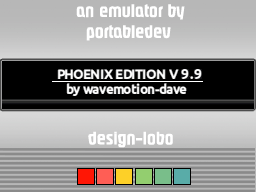
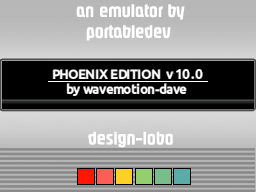
Version 10.0 - see README.MD for details

Changed region(s): [[0.1875, 0.3438, 0.8125, 0.4375]]

diff --git a/arm9/source/svi.c b/arm9/source/svi.c
@@ -306,6 +306,11 @@ unsigned char cpu_readport_svi(register unsigned short Port)
 }
 
 
+// ------------------------------------------------------------------------
+// Patch SVI BIOS for Cassette use and point memory map to 32K BIOS in 
+// lower memory and RAM in upper memory ... the running program can 
+// alter this and swap in RAM or ROM in either segment of 32K memory map.
+// ------------------------------------------------------------------------
 void svi_restore_bios(void)
 {
     memcpy(BIOS_Memory, SVIBios, 0x8000);       // Restore SVI BIOS
@@ -327,12 +332,14 @@ void svi_restore_bios(void)
     MemoryMap[1] = (u8 *)(BIOS_Memory + 0x2000);      // Restore SVI BIOS
     MemoryMap[2] = (u8 *)(BIOS_Memory + 0x4000);      // Restore SVI BIOS
     MemoryMap[3] = (u8 *)(BIOS_Memory + 0x6000);      // Restore SVI BIOS
+    
     MemoryMap[4] = (u8 *)(RAM_Memory  + 0x8000);      // RAM here by default
-    MemoryMap[5] = (u8 *)(RAM_Memory + 0xA000);      // RAM here by default
-    MemoryMap[6] = (u8 *)(RAM_Memory + 0xC000);      // RAM here by default
-    MemoryMap[7] = (u8 *)(RAM_Memory + 0xE000);      // RAM here by default
-    svi_RAM[0]  = 0;
-    svi_RAM[1]  = 1;
+    MemoryMap[5] = (u8 *)(RAM_Memory  + 0xA000);      // RAM here by default
+    MemoryMap[6] = (u8 *)(RAM_Memory  + 0xC000);      // RAM here by default
+    MemoryMap[7] = (u8 *)(RAM_Memory  + 0xE000);      // RAM here by default
+    
+    svi_RAMinSegment[0]  = 0;    // ROM in lower 32K segment by default
+    svi_RAMinSegment[1]  = 1;    // RAM in upper 32K segment by default
 }
 
 
@@ -389,7 +396,7 @@ void cpu_writeport_svi(register unsigned short Port,register unsigned char Value
                     MemoryMap[1] = (u8 *)(BIOS_Memory + 0x2000);      // Restore SVI BIOS
                     MemoryMap[2] = (u8 *)(BIOS_Memory + 0x4000);      // Restore SVI BIOS
                     MemoryMap[3] = (u8 *)(BIOS_Memory + 0x6000);      // Restore SVI BIOS
-                    svi_RAM[0]  = 0;
+                    svi_RAMinSegment[0]  = 0;
                 }
                 else if (lowerBankEnable & 0x01)   // No Game Cart in lower slot
                 {
@@ -407,7 +414,7 @@ void cpu_writeport_svi(register unsigned short Port,register unsigned char Value
                         MemoryMap[2] = (u8 *)(BIOS_Memory + 0xC000);       // Nothing here... 0xFF
                         MemoryMap[3] = (u8 *)(BIOS_Memory + 0xC000);       // Nothing here... 0xFF
                     }
-                    svi_RAM[0]  = 0;
+                    svi_RAMinSegment[0]  = 0;
                 }
                 else if (lowerBankEnable & 0x02)   // SVI-328 has the other 32K of RAM in lower slot
                 {
@@ -415,7 +422,7 @@ void cpu_writeport_svi(register unsigned short Port,register unsigned char Value
                     MemoryMap[1] = (u8 *)(RAM_Memory + 0x2000);       // Normal RAM in lower slot
                     MemoryMap[2] = (u8 *)(RAM_Memory + 0x4000);       // Normal RAM in lower slot
                     MemoryMap[3] = (u8 *)(RAM_Memory + 0x6000);       // Normal RAM in lower slot
-                    svi_RAM[0]  = 1;
+                    svi_RAMinSegment[0]  = 1;
                 }
                 else if (lowerBankEnable & 0x08)   // No Expansion RAM in lower slot
                 {
@@ -423,7 +430,7 @@ void cpu_writeport_svi(register unsigned short Port,register unsigned char Value
                     MemoryMap[1] = (u8 *)(BIOS_Memory + 0xC000);       // Nothing here... 0xFF
                     MemoryMap[2] = (u8 *)(BIOS_Memory + 0xC000);       // Nothing here... 0xFF
                     MemoryMap[3] = (u8 *)(BIOS_Memory + 0xC000);       // Nothing here... 0xFF
-                    svi_RAM[0]  = 0;
+                    svi_RAMinSegment[0]  = 0;
                 }
 
 
@@ -435,19 +442,19 @@ void cpu_writeport_svi(register unsigned short Port,register unsigned char Value
                       MemoryMap[5] = (u8 *)(RAM_Memory + 0xA000);      // Restore RAM
                       MemoryMap[6] = (u8 *)(RAM_Memory + 0xC000);      // Restore RAM
                       MemoryMap[7] = (u8 *)(RAM_Memory + 0xE000);      // Restore RAM
-                      svi_RAM[1] = 1;
+                      svi_RAMinSegment[1] = 1;
                 }
                 else if (((upperBankEnable & 0xC0)==0x40) && (svi_mode == 2))   // Cart in upper slot
                 {
                     MemoryMap[4] = (u8 *)(ROM_Memory + 0x8000);       // Cartridge here
                     MemoryMap[5] = (u8 *)(ROM_Memory + 0xA000);       // Cartridge here
-                    svi_RAM[1]  = 1;
+                    svi_RAMinSegment[1]  = 1;
                 }
                 else if (((upperBankEnable & 0xC0)==0x80) && (svi_mode == 2))   // Cart in upper slot
                 {
                     MemoryMap[6] = (u8 *)(ROM_Memory + 0xC000);       // Cartridge here
                     MemoryMap[7] = (u8 *)(ROM_Memory + 0xE000);       // Cartridge here
-                    svi_RAM[1]  = 1;
+                    svi_RAMinSegment[1]  = 1;
                 }
                 else if (((upperBankEnable & 0xC0)==0xC0) && (svi_mode == 2))   // Cart in upper slot
                 {
@@ -455,7 +462,7 @@ void cpu_writeport_svi(register unsigned short Port,register unsigned char Value
                     MemoryMap[5] = (u8 *)(ROM_Memory + 0xA000);       // Cartridge here
                     MemoryMap[6] = (u8 *)(ROM_Memory + 0xC000);       // Cartridge here
                     MemoryMap[7] = (u8 *)(ROM_Memory + 0xE000);       // Cartridge here
-                    svi_RAM[1]  = 0;
+                    svi_RAMinSegment[1]  = 0;
                 }
                 else // Nothing lives here...
                 {
@@ -463,7 +470,7 @@ void cpu_writeport_svi(register unsigned short Port,register unsigned char Value
                     MemoryMap[5] = (u8 *)(BIOS_Memory + 0xC000);       // Nothing here... 0xFF
                     MemoryMap[6] = (u8 *)(BIOS_Memory + 0xC000);       // Nothing here... 0xFF
                     MemoryMap[7] = (u8 *)(BIOS_Memory + 0xC000);       // Nothing here... 0xFF
-                    svi_RAM[1]  = 0;
+                    svi_RAMinSegment[1]  = 0;
                 }
 
                 lastIOBYTE = IOBYTE;
@@ -514,8 +521,8 @@ void svi_reset(void)
         lastIOBYTE = 99;
         tape_pos = 0;
 
-        svi_RAM[0] = 0;
-        svi_RAM[1] = 1;
+        svi_RAMinSegment[0] = 0;
+        svi_RAMinSegment[1] = 1;
 
         Port_PPI_A = 0x00;
         Port_PPI_B = 0x00;

diff --git a/arm9/source/colecogeneric.c b/arm9/source/colecogeneric.c
@@ -749,7 +749,8 @@ void colecoDSFindFiles(void)
       }
     }
     else {
-      if ((strlen(szFile)>4) && (strlen(szFile)<(MAX_ROM_NAME-4)) ) {
+      if ((strlen(szFile)>4) && (strlen(szFile)<(MAX_ROM_NAME-4)) && (szFile[0] != '.') && (szFile[0] != '_'))  // For MAC don't allow underscore files
+      {
         if ( (strcasecmp(strrchr(szFile, '.'), ".rom") == 0) )  {
           strcpy(gpFic[uNbFile].szName,szFile);
           gpFic[uNbFile].uType = COLROM;
@@ -2331,7 +2332,7 @@ void ReadFileCRCAndConfig(void)
 // --------------------------------------------------------------------
 void colecoDSChangeOptions(void) 
 {
-  u32 ucHaut=0x00, ucBas=0x00,ucA=0x00,ucY= 7, bOK=0;
+  u16 ucHaut=0x00, ucBas=0x00,ucA=0x00,ucY= 7, bOK=0;
   
   // Upper Screen Background
   videoSetMode(MODE_0_2D | DISPLAY_BG0_ACTIVE | DISPLAY_BG1_ACTIVE | DISPLAY_SPR_1D_LAYOUT | DISPLAY_SPR_ACTIVE);
@@ -2345,7 +2346,7 @@ void colecoDSChangeOptions(void)
   dmaCopy((void*) topscreenPal,(void*) BG_PALETTE,256*2);
   unsigned short dmaVal =  *(bgGetMapPtr(bg0) + 51*32);
   dmaFillWords(dmaVal | (dmaVal<<16),(void*) bgGetMapPtr(bg1),32*24*2);
-  DSPrint(28,23,1,"V");DSPrint(29,23,1,VERSIONCLDS);
+  DSPrint(27,23,1,VERSIONCLDS);
 
   // Lower Screen Background
   BottomScreenOptions();

diff --git a/arm9/source/colecoDS.c b/arm9/source/colecoDS.c
@@ -900,7 +900,7 @@ void ShowDebugZ80(void)
         }
         else
         {
-            sprintf(tmp, "SVI %s %s", (svi_RAM[0] ? "RAM":"ROM"), (svi_RAM[1] ? "RAM":"ROM")); DSPrint(19,idx++,7, tmp);
+            sprintf(tmp, "SVI %s %s", (svi_RAMinSegment[0] ? "RAM":"ROM"), (svi_RAMinSegment[1] ? "RAM":"ROM")); DSPrint(19,idx++,7, tmp);
             sprintf(tmp, "PPI A=%02X B=%02X",Port_PPI_A,Port_PPI_B);    DSPrint(19,idx++,7, tmp);
             sprintf(tmp, "PPI C=%02X M=%02X",Port_PPI_C,Port_PPI_CTRL); DSPrint(19,idx++,7, tmp);
         }
@@ -1110,6 +1110,13 @@ void DisplayStatusLine(bool bForce)
         {
             last_adam_mode = adam_mode;
             DSPrint(25,0,6, "ADAM");
+        }
+        
+        // Adam Sound Enhancer allows for AY chip support...
+        if ((last_ay_mode != AY_Enable) || bForce)
+        {
+            last_ay_mode = AY_Enable;
+            DSPrint(22,0,6, (AY_Enable ? "AY":"  "));
         }
 
         // If we are showing the ADAM keyboard, indicate CAPS LOCK
@@ -4624,4 +4631,3 @@ void debug_save()
 }
 
 // End of file
-

diff --git a/arm9/source/saveload.c b/arm9/source/saveload.c
@@ -192,7 +192,7 @@ void colecoSaveState()
     if (retVal) retVal = fwrite(&memotech_lastMagROMPage, sizeof(memotech_lastMagROMPage), 1, handle);       
       
     // Some SVI stuff...
-    if (retVal) retVal = fwrite(&svi_RAM, sizeof(svi_RAM), 1, handle); 
+    if (retVal) retVal = fwrite(&svi_RAMinSegment, sizeof(svi_RAMinSegment), 1, handle); 
       
     // Some SG-1000 / SC-3000 stuff...
     if (retVal) retVal = fwrite(&Port_PPI_CTRL, sizeof(Port_PPI_CTRL), 1, handle);       
@@ -453,7 +453,7 @@ void colecoLoadState()
             if (retVal) retVal = fread(&memotech_lastMagROMPage, sizeof(memotech_lastMagROMPage), 1, handle); 
             
             // Some SVI stuff...
-            if (retVal) retVal = fread(&svi_RAM, sizeof(svi_RAM), 1, handle); 
+            if (retVal) retVal = fread(&svi_RAMinSegment, sizeof(svi_RAMinSegment), 1, handle); 
             
             // Some SG-1000 / SC-3000 stuff...
             if (retVal) retVal = fread(&Port_PPI_CTRL, sizeof(Port_PPI_CTRL), 1, handle);       

diff --git a/arm9/source/colecomngt.c b/arm9/source/colecomngt.c
@@ -44,7 +44,7 @@ u8 *MemoryMap[8]        __attribute__((section(".dtcm"))) = {0,0,0,0,0,0,0,0};
 // Some IO Port and Memory Map vars...
 // -------------------------------------
 u16 memotech_RAM_start  __attribute__((section(".dtcm"))) = 0x4000;
-u8 svi_RAM[2]           __attribute__((section(".dtcm"))) = {0,1};
+u8 svi_RAMinSegment[2]  __attribute__((section(".dtcm"))) = {0,1};
 u8 IOBYTE               __attribute__((section(".dtcm"))) = 0x00;
 u8 MTX_KBD_DRIVE        __attribute__((section(".dtcm"))) = 0x00;
 u8 lastIOBYTE           __attribute__((section(".dtcm"))) = 99;

diff --git a/arm9/source/cpu/z80/Z80_interface.c b/arm9/source/cpu/z80/Z80_interface.c
@@ -646,7 +646,7 @@ ITCM_CODE void cpu_writemem16(u8 value,u16 address)
         // ----------------------------------------------------------------------------------
         else if (machine_mode & MODE_SVI)
         {
-            if ( ((address < 0x8000) && svi_RAM[0]) || ((address >= 0x8000) && svi_RAM[1]) )
+            if (svi_RAMinSegment[(address & 0x8000) ? 1:0])  // Is there RAM in this 32K area?
             {
                 RAM_Memory[address]=value;  // Allow pretty much anything above the base ROM area
             }

diff --git a/arm9/source/colecomngt.h b/arm9/source/colecomngt.h
@@ -115,7 +115,7 @@ extern u8 SGC_SST_CmdPos;
 // -------------------------------
 extern u32* lutTablehh;
 extern u8 msx_sram_at_8000;
-extern u8 svi_RAM[2];
+extern u8 svi_RAMinSegment[2];
 extern u16 memotech_RAM_start;
 
 extern u8 memotech_magrom_present;

diff --git a/arm9/source/colecoDS.h b/arm9/source/colecoDS.h
@@ -15,7 +15,7 @@
 #include <string.h>
 #include "C24XX.h"
 
-#define VERSIONCLDS "9.9"
+#define VERSIONCLDS "V10.0"
 
 extern u32 debug[0x10];
 
